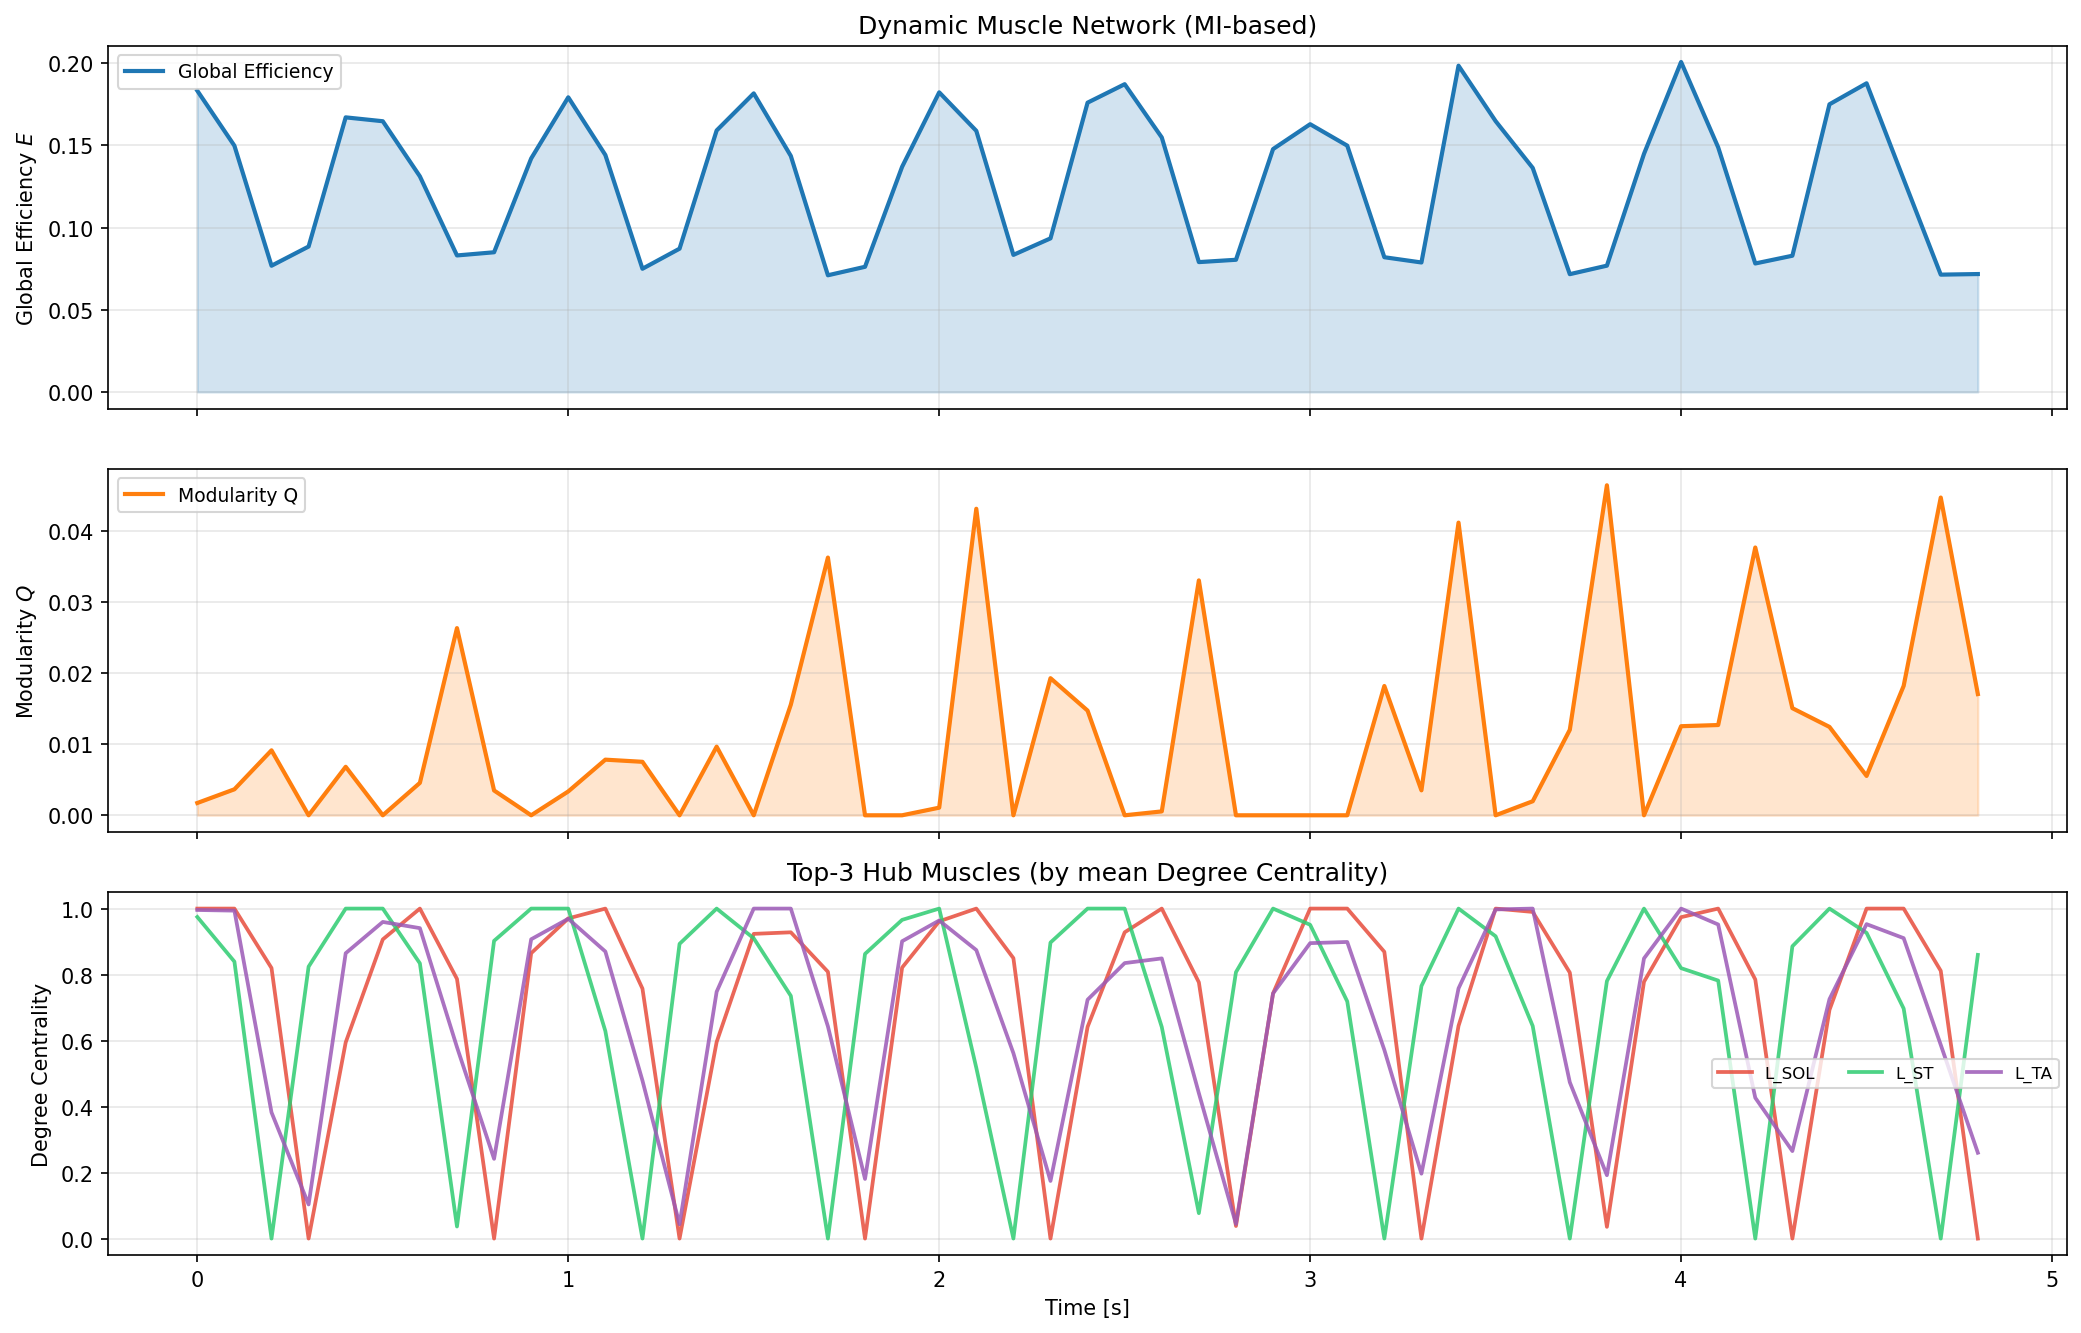
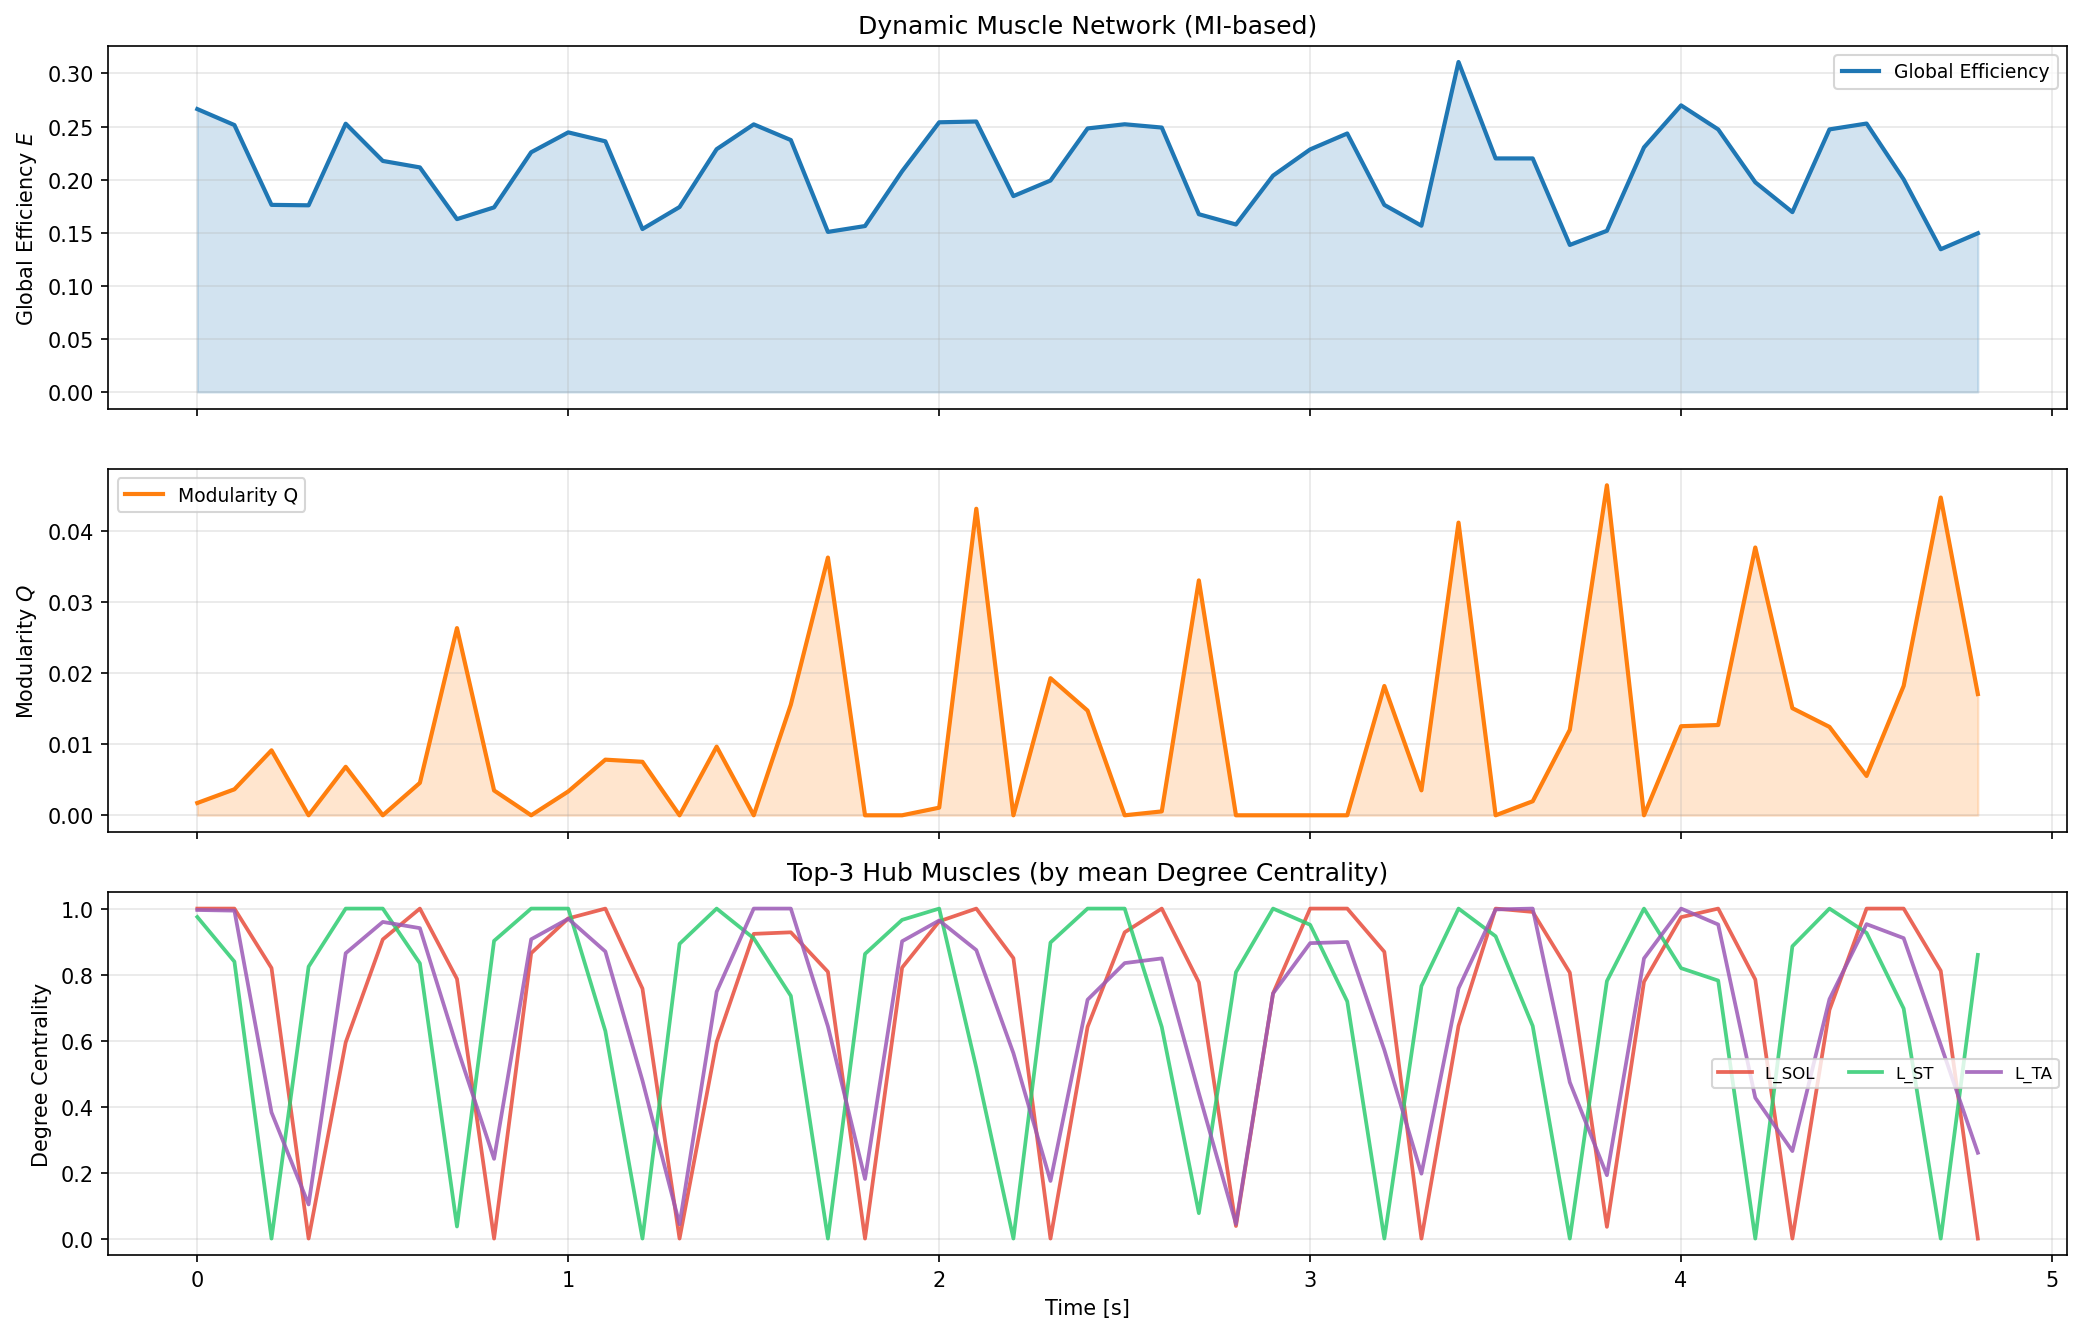
dynamic_networkの編集

diff --git a/2026_analysis/futto_network_real/emg_network/dynamic_network.py b/2026_analysis/futto_network_real/emg_network/dynamic_network.py
@@ -507,29 +507,18 @@ class DynamicMuscleNetworkAnalyzer:
 
     def _global_efficiency_nx(self, G) -> float:
         """
-        Global Efficiency を NetworkX で計算する（正規化済み版）。
+        Global Efficiency を NetworkX で計算する（正規化済み, range [0,1]）。
 
-        【定義】
-          距離: d_ij = 1 / MI_ij  （MI が大きいほど近い）
-          E = (1 / N(N-1)) * Σ_{i≠j} (1 / d_ij)
-            = (1 / N(N-1)) * Σ_{i≠j} MI_ij_shortest
+        距離 d_ij = 1 / MI_ij を最短経路で求め、
+        MI_max で除算して正規化することで必ず [0, 1] に収まる。
 
-        【正規化】
-          完全グラフ（全エッジの MI が最大値 MI_max）の場合の E_max で割る:
-          E_norm = E / E_max  ∈ [0, 1]
-          E_max = MI_max（1ホップで全ノードに到達できる完全グラフの場合）
-
-        【1.0 超過の問題の原因と修正】
-          旧実装: 距離 d = 1/MI を Dijkstra で計算 → その逆数 1/d = MI を加算
-          → 短い経路（多ホップ）で合計 MI が 1 を超える場合があった
-          修正後: 最大 MI 重みで正規化することで必ず [0, 1] に収まる
+        E = (1/N(N-1)) * Σ_{i≠j} (1/d_ij) / MI_max
         """
         import networkx as nx
         N = G.number_of_nodes()
         if N <= 1:
             return 0.0
 
-        # エッジ属性 'distance' = 1 / (MI + ε) を追加
         G_dist = G.copy()
         all_weights = []
         for u, v, data in G_dist.edges(data=True):
@@ -539,24 +528,20 @@ class DynamicMuscleNetworkAnalyzer:
 
         if not all_weights:
             return 0.0
-
-        # 最大 MI 値（正規化の基準）
         mi_max = max(all_weights)
         if mi_max <= 0:
             return 0.0
 
-        total_inv_dist = 0.0
+        total_inv = 0.0
         for node in G_dist.nodes():
             lengths = nx.single_source_dijkstra_path_length(
                 G_dist, node, weight='distance'
             )
             for other, d in lengths.items():
                 if other != node and d > 0:
-                    # 1/d = 最短経路上の「MI的な近さ」
-                    # mi_max で割って正規化 → 最大でも 1.0
-                    total_inv_dist += (1.0 / d) / mi_max
+                    total_inv += (1.0 / d) / mi_max
 
-        return float(total_inv_dist / (N * (N - 1)))
+        return float(total_inv / (N * (N - 1)))
 
     def _louvain_modularity(self, G) -> float:
         """
@@ -964,57 +949,115 @@ def generate_dummy_emg(
 
 
 # =============================================================================
-# __main__: デモ実行
+# __main__: 実データ実行
 # =============================================================================
 
-if __name__ == "__main__":
-    import time
-    print("=" * 60)
-    print(" Dynamic Muscle Network Analyzer — デモ実行")
-    print("=" * 60)
+def _run_one(task_key, phase, subject, base_dir, result_dir, analyzer):
+    """1タスク × 1フェーズ の MI ネットワーク解析を実行する。"""
+    import time, pandas as pd
+    phase_speed = {1:'0.7', 2:'0.9', 3:'1.1', 4:'1.3', 5:'1.5'}
+    speed = phase_speed.get(phase, str(phase))
 
-    # ── ダミーデータ生成 ─────────────────────────────────────────
-    print("\n[1/4] ダミーEMGデータ生成 (16ch × 10000samples @ 2000Hz) ...")
-    emg_dummy = generate_dummy_emg(n_channels=16, n_samples=10000, fs=2000)
-    print(f"  shape: {emg_dummy.shape}  range: [{emg_dummy.min():.3f}, {emg_dummy.max():.3f}]")
-
-    # ── アナライザー初期化 ────────────────────────────────────────
-    print("\n[2/4] アナライザー初期化 ...")
-    analyzer = DynamicMuscleNetworkAnalyzer(
-        fs            = 2000,
-        window_ms     = 200,     # 200ms ウィンドウ（= 400サンプル）
-        step_ms       = 100,     # 100ms ステップ
-        n_neighbors   = 5,
-        n_jobs        = 1,       # デモはシリアル実行
-        sparsify      = 'percentile',
-        sparsify_param= 0.70,    # 上位30%のエッジを保持
+    csv_path = (
+        Path(result_dir) / "2026" / subject / task_key / speed
+        / f"{task_key}_Phase{phase}_{speed}ms_emg_normalized.csv"
     )
-    print(f"  window_size={analyzer.window_size}pts, step={analyzer.step_size}pts")
+    if not csv_path.exists():
+        print(f"  [Skip] CSV が見つかりません: {csv_path}")
+        return
 
-    # ── 解析実行 ──────────────────────────────────────────────────
-    print("\n[3/4] ネットワーク解析実行 ...")
-    t0     = time.time()
-    result = analyzer.run(emg_dummy, verbose=True)
-    elapsed= time.time() - t0
-    print(f"\n  完了: {elapsed:.1f}秒")
-    print(f"  ウィンドウ数: {result.n_windows}")
-    print(f"  E_mean={result.global_efficiency.mean():.4f}  "
-          f"E_std={result.global_efficiency.std():.4f}")
-    print(f"  Q_mean={result.modularity.mean():.4f}  "
-          f"Q_std={result.modularity.std():.4f}")
-    dc_mean = result.degree_centrality.mean(axis=0)
+    df       = pd.read_csv(csv_path)
+    ch_names = [c for c in df.columns if c != 'Time_s']
+    emg      = df[ch_names].values.T.astype(float)
+    print(f"  EMG: {emg.shape}  range=[{emg.min():.3f}, {emg.max():.3f}]")
+
+    t0      = time.time()
+    result  = analyzer.run(emg, verbose=True)
+    elapsed = time.time() - t0
+    print(f"  完了: {elapsed:.1f}秒  windows={result.n_windows}")
+
+    dc_mean  = result.degree_centrality.mean(axis=0)
     top3_idx = np.argsort(dc_mean)[::-1][:3]
-    print(f"  Top-3 ハブ筋: {[result.channel_names[i] for i in top3_idx]}")
+    print(f"  E_mean={result.global_efficiency.mean():.4f}  "
+          f"Q_mean={result.modularity.mean():.4f}")
+    print(f"  Top-3 hub muscles: {[result.channel_names[i] for i in top3_idx]}")
 
-    # ── 可視化 ────────────────────────────────────────────────────
-    print("\n[4/4] グラフ出力 ...")
-    out_dir = Path("./network_results/demo")
+    out_dir = (
+        Path(result_dir) / "2026" / subject
+        / "dynamic_network" / f"Ph{phase}_{speed}" / task_key
+    )
     out_dir.mkdir(parents=True, exist_ok=True)
 
-    analyzer.plot_timeseries(result, save_path=out_dir / "timeseries_demo.png")
-    analyzer.plot_network(result, window_idx=result.n_windows // 2,
-                          save_path=out_dir / "network_demo.png")
-    analyzer.save_metrics_csv(result, out_dir, prefix="demo")
-    analyzer.export_for_gnn(result, out_dir / "demo_for_gnn.npz")
+    analyzer.plot_timeseries(
+        result,
+        save_path=out_dir / f"timeseries_{task_key}_Ph{phase}_{speed}.png",
+        task_key=task_key, phase=phase, speed=speed,
+    )
+    analyzer.plot_network(
+        result,
+        window_idx=result.n_windows // 2,
+        save_path=out_dir / f"network_{task_key}_Ph{phase}_{speed}.png",
+        title_extra=f"{task_key} Ph{phase} {speed}m/s",
+    )
+    analyzer.save_metrics_csv(result, out_dir,
+                              prefix=f"{task_key}_Ph{phase}_{speed}")
+    npz_path = out_dir / f"for_gnn_{task_key}_Ph{phase}_{speed}.npz"
+    analyzer.export_for_gnn(result, npz_path, emg_data=emg)
+    print(f"  -> {out_dir}")
 
-    print(f"\n=== デモ完了。結果: {out_dir.resolve()} ===")
+
+if __name__ == "__main__":
+    import argparse, time
+
+    p = argparse.ArgumentParser(
+        description="MI Dynamic Muscle Network — 実データ実行"
+    )
+    p.add_argument('--subjects',    nargs='+', default=['Ide'])
+    p.add_argument('--tasks',       nargs='+',
+                   default=['task01', 'task02', 'task03'])
+    p.add_argument('--phases',      nargs='+', type=int,
+                   default=[1, 2, 3, 4, 5])
+    p.add_argument('--base_dir',    default=r"C:\Users\ihika\2026_experiment")
+    p.add_argument('--result_dir',  default=r"C:\FuttoAnalysis\result")
+    p.add_argument('--window_ms',   type=float, default=200.0)
+    p.add_argument('--step_ms',     type=float, default=100.0)
+    p.add_argument('--n_neighbors', type=int,   default=5)
+    p.add_argument('--n_jobs',      type=int,   default=-1)
+    args = p.parse_args()
+
+    print("=" * 60)
+    print("  MI Dynamic Muscle Network Analyzer")
+    print("=" * 60)
+    print(f"  subjects : {args.subjects}")
+    print(f"  tasks    : {args.tasks}")
+    print(f"  phases   : {args.phases}")
+    print(f"  window   : {args.window_ms}ms  step: {args.step_ms}ms")
+    print(f"  n_jobs   : {args.n_jobs}")
+
+    analyzer = DynamicMuscleNetworkAnalyzer(
+        fs=2000, window_ms=args.window_ms, step_ms=args.step_ms,
+        n_neighbors=args.n_neighbors, n_jobs=args.n_jobs,
+        sparsify='percentile', sparsify_param=0.70,
+    )
+    print(f"  window_size={analyzer.window_size}pts  step={analyzer.step_size}pts")
+
+    total_t0 = time.time()
+    phase_speed = {1:'0.7', 2:'0.9', 3:'1.1', 4:'1.3', 5:'1.5'}
+    for subject in args.subjects:
+        for task_key in args.tasks:
+            for phase in args.phases:
+                speed = phase_speed.get(phase, str(phase))
+                print(f"\n{'='*55}")
+                print(f"  {subject} / {task_key} / Phase{phase} ({speed}m/s)")
+                print(f"{'='*55}")
+                try:
+                    _run_one(task_key, phase, subject,
+                             args.base_dir, args.result_dir, analyzer)
+                except Exception as e:
+                    print(f"  [Error] {e}")
+
+    elapsed = time.time() - total_t0
+    print(f"\n{'='*55}")
+    print(f"  全処理完了: {elapsed/60:.1f}分")
+    print(f"  出力先: {args.result_dir}\\2026\\{{subject}}\\dynamic_network\\")
+    print(f"{'='*55}")
